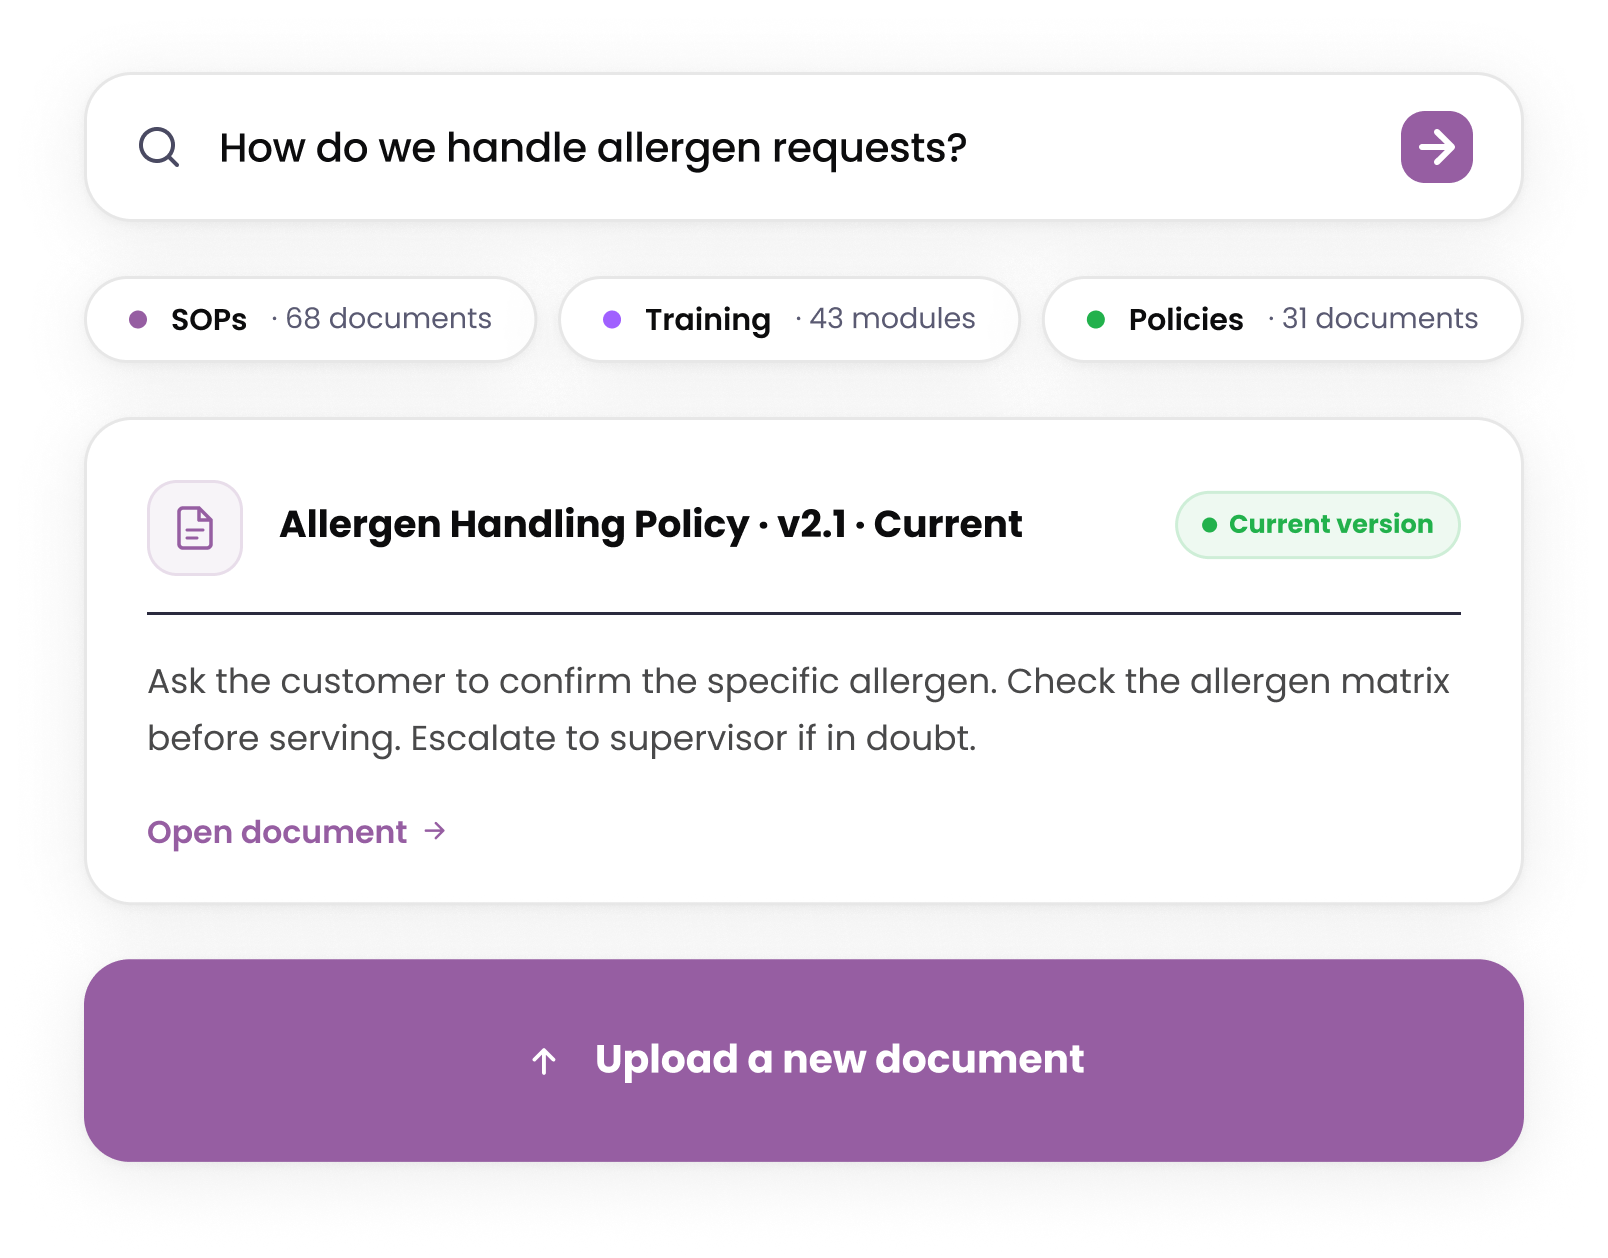
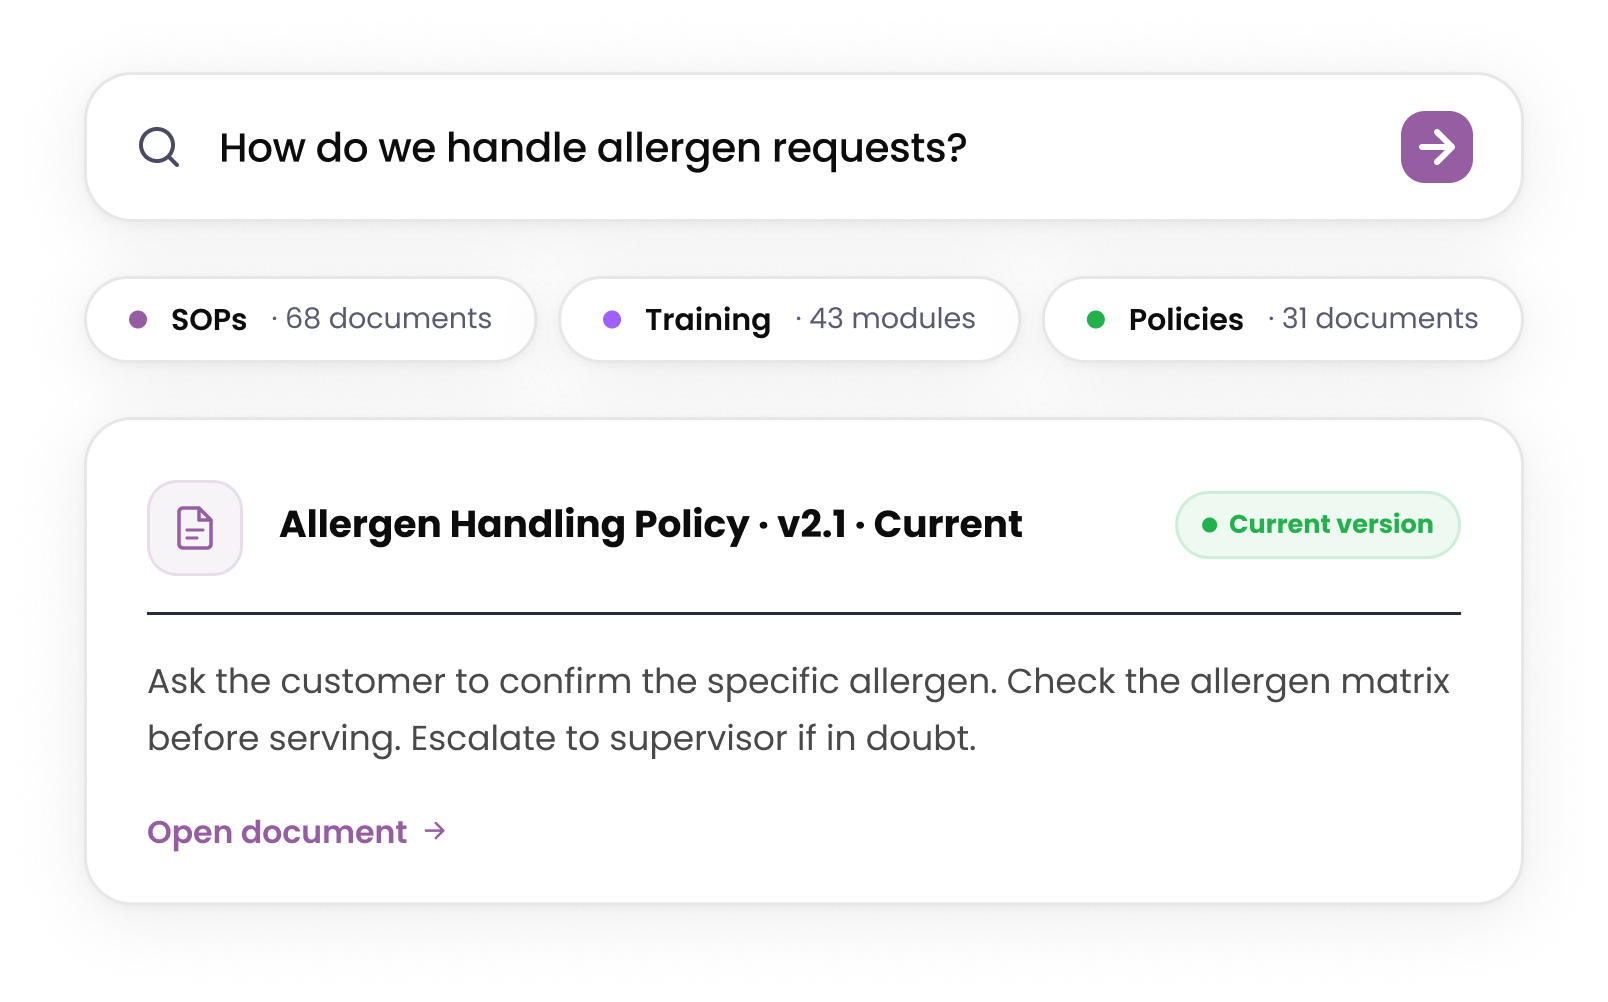
Refactor descriptions and input types across various components for improved clarity and user experience. Update survey descriptions for consistency, change input type for site count to number, and adjust header structure for better layout. Enhance styling in header and spotlight sections for better

diff --git a/app/(website)/solutions/by-challenge/siloed-tools-and-data/data.js b/app/(website)/solutions/by-challenge/siloed-tools-and-data/data.js
@@ -13,7 +13,7 @@ export const challengeFrameData = [
     {
         eyebrow: "01 | Data is siloed",
         title: "Customer and operational data sit in different tools and different teams.",
-        description: "Feedback, audits, tickets and reviews are captured into one connected platform, so every signal lands in the same place without manual exports.",
+        // description: "Feedback, audits, tickets and reviews are captured into one connected platform, so every signal lands in the same place without manual exports.",
         tags: [
             {
                 tag: "Connected signals",
@@ -23,7 +23,7 @@ export const challengeFrameData = [
     {
         eyebrow: "02 | Signals are disconnected",
         title: "Proving how the estate is doing means stitching exports together by hand.",
-        description: "EVA reads across every signal and answers in plain English, so the question how are we doing takes seconds, not a week of spreadsheet work.",
+        // description: "EVA reads across every signal and answers in plain English, so the question how are we doing takes seconds, not a week of spreadsheet work.",
         tags: [
             {
                 tag: "One operating picture",
@@ -33,7 +33,7 @@ export const challengeFrameData = [
     {
         eyebrow: "03 | Answers are hidden",
         title: "The business is connected in real life, but disconnected in your systems.",
-        description: "Serve First gives every team one operating picture, so insight routes into tasks and follow-ups instead of dying in a dashboard nobody owns.",
+        // description: "Serve First gives every team one operating picture, so insight routes into tasks and follow-ups instead of dying in a dashboard nobody owns.",
         tags: [
             {
                 tag: "Answers in seconds",

diff --git a/app/(website)/solutions/by-challenge/inconsistent-standards/data.js b/app/(website)/solutions/by-challenge/inconsistent-standards/data.js
@@ -12,7 +12,7 @@ export const challengeFrameData = [
     {
         eyebrow: "01 | Standards drift",
         title: "One standard leaves head office and changes a little at every site.",
-        description: "Serve First runs the same digital Audits at every site, scored the same way, so the standard is checked like for like and drift shows up immediately.",
+        // description: "Serve First runs the same digital Audits at every site, scored the same way, so the standard is checked like for like and drift shows up immediately.",
         tags: [
             {
                 tag: "Store audits",
@@ -22,7 +22,7 @@ export const challengeFrameData = [
     {
         eyebrow: "02 | Ratings change",
         title: "You cannot see which locations are slipping until customers feel it.",
-        description: "Every site is scored and compared in one operating picture, with EVA flagging the locations that are slipping and the standard behind the slip.",
+        // description: "Every site is scored and compared in one operating picture, with EVA flagging the locations that are slipping and the standard behind the slip.",
         tags: [
             {
                 tag: "Routed tasks",
@@ -32,7 +32,7 @@ export const challengeFrameData = [
     {
         eyebrow: "03 | Inconsistent standards",
         title: "Issues get raised on a visit, then quietly slip back within weeks.",
-        description: "Every failed check raises a corrective task routed to an owner and tracked to proof of completion, so the fix holds and you can show it did.",
+        // description: "Every failed check raises a corrective task routed to an owner and tracked to proof of completion, so the fix holds and you can show it did.",
         tags: [
             {
                 tag: "Proof of completion",

diff --git a/app/(website)/solutions/by-industry/restaurants/data.js b/app/(website)/solutions/by-industry/restaurants/data.js
@@ -10,19 +10,19 @@ export const challengeFrameData = [
     {
         eyebrow: "01 | Food safety audits",
         title: "Food safety and service standards drift between sites and shifts.",
-        description: "Serve First runs the same food safety and service audits at every site, scored consistently, so standards are checked the same way on every shift.",
+        // description: "Serve First runs the same food safety and service audits at every site, scored consistently, so standards are checked the same way on every shift.",
         tags: []
     },
     {
         eyebrow: "02 | Guest Feedback",
         title: "When the audit is on paper, the evidence is patchy and hard to find later.",
-        description: "Digital checks capture timestamps, photos and sign-offs as the shift runs, so the evidence builds itself and is ready when you need it.",
+        // description: "Digital checks capture timestamps, photos and sign-offs as the shift runs, so the evidence builds itself and is ready when you need it.",
         tags: []
     },
     {
         eyebrow: "03 | Proof of Completion",
         title: "A problem gets noted, then slips back before the next visit.",
-        description: "Every failed check raises a corrective task routed to the right owner and tracked to done, so issues close before the next service.",
+        // description: "Every failed check raises a corrective task routed to the right owner and tracked to done, so issues close before the next service.",
         tags: []
     }
 ]

diff --git a/components/layouts/header/parts/header-shell.js b/components/layouts/header/parts/header-shell.js
@@ -1,0 +1,36 @@
+"use client";
+
+// Next
+import { usePathname } from "next/navigation";
+
+// Components
+import Topbar from "@/components/layouts/topbar/topbar";
+
+// Styles
+import styles from "@/styles/components/layouts/header/header.module.scss";
+
+const topbarPath = "/products/customer-experience/mystery-shopping";
+
+export default function HeaderShell({ children }) {
+
+    const pathname = usePathname();
+
+    const hasTopbar = pathname === topbarPath;
+
+    return (
+
+        <>
+
+            {hasTopbar && <Topbar />}
+
+            <header id="header" className={styles.header} role="banner" data-has-topbar={hasTopbar}>
+
+                {children}
+
+            </header>
+
+        </>
+
+    )
+
+}

diff --git a/components/sections/platform-story/platform-story.js b/components/sections/platform-story/platform-story.js
@@ -23,17 +23,13 @@ export default function PlatformStory({
             data-name="platform-story"
         >
 
-            <div className={"container sectionSplitTitle noPaddingBottom"}>
+            <div className={"container noPaddingBottom"}>
 
-                <div className={`content headingCol`}>
+                <div className={`content`}>
 
                     {eyebrow && (<Eyebrow text={eyebrow} hasDash={true} />)}
 
                     <Text headingClass={`sectionTitle colorPrimaryAlt`} title={title} />
-
-                </div>
-
-                <div className={`contentCol`}>
 
                     {description && (<Text description={description} />)}
 

diff --git a/components/layouts/topbar/components/topbar-layout.js b/components/layouts/topbar/components/topbar-layout.js
@@ -1,0 +1,23 @@
+// Components
+import Button from "@/components/handlers/buttons";
+
+// Styles
+import styles from "@/styles/components/layouts/topbar/topbar.module.scss";
+
+export default function Topbar({ href = "https://mysteryshopping.servefirst.ai/", text = "Become a Mystery Shopper", target = "_blank" }) {
+
+    return (
+
+        <div className={`row ${styles.topbar}`}>
+
+            <div className={`container ${styles.topbarContainer}`}>
+
+                <Button href={href} text={text} target={target} className="textLink colorPrimaryAlt" hasAnimation={false} />
+
+            </div>
+
+        </div>
+
+    )
+
+}

diff --git a/app/(website)/solutions/by-challenge/data-to-action/data.js b/app/(website)/solutions/by-challenge/data-to-action/data.js
@@ -13,7 +13,7 @@ export const challengeFrameData = [
     {
         eyebrow: "01 | Plenty of dashboards",
         title: "You have no shortage of dashboards, and no shortage of unread reports.",
-        description: "EVA reads each signal and names the next action, with the site and the reason, so insight arrives ready to use rather than waiting to be interpreted.",
+        description: "EVA reads each signal and names the next action, with the site and the reason, so insight arrives ready to use, not waiting to be interpreted.",
         tags: [
             {
                 tag: "System of action",

diff --git a/components/handlers/forms/form-full.js b/components/handlers/forms/form-full.js
@@ -158,7 +158,7 @@ export default function FormFull({ theme = "primary", hasDemoLink = true, formBt
 
                     <div className={styles.field}>
 
-                        <input type="text" name="sites" required autoComplete="false" placeholder="How many locations you operate." aria-required="true" />
+                        <input type="number" min="1" name="sites" required autoComplete="false" placeholder="How many locations you operate." aria-required="true" />
 
                     </div>
 

diff --git a/components/layouts/header/header.js b/components/layouts/header/header.js
@@ -1,17 +1,16 @@
 // Components
+import HeaderShell from "@/components/layouts/header/parts/header-shell"
 import HeaderContainer from "@/components/layouts/header/parts/header-container"
-
-import styles from "@/styles/components/layouts/header/header.module.scss"
 
 export default function Header() {
 
     return (
 
-        <header id="header" className={styles.header} role="banner">
+        <HeaderShell>
 
             <HeaderContainer />
 
-        </header>
+        </HeaderShell>
 
     )
 

diff --git a/styles/components/layouts/topbar/topbar.module.scss b/styles/components/layouts/topbar/topbar.module.scss
@@ -1,0 +1,23 @@
+.topbar {
+    @media (width >=1024px) {
+        background: transparent;
+        position: absolute;
+        z-index: 9999;
+    }
+}
+
+.topbarContainer {
+    display: flex;
+    align-items: flex-end;
+    height: var(--mobileTopbarHeight);
+
+    @media all {
+        padding-top: 0;
+        padding-bottom: 0;
+    }
+
+    @media (width >=1024px) {
+        height: var(--desktopTopbarHeight);
+        mix-blend-mode: difference;
+    }
+}

diff --git a/components/sections/eva-spotlight/components/eva-spotlight-item.js b/components/sections/eva-spotlight/components/eva-spotlight-item.js
@@ -55,7 +55,7 @@ export default function EvaSpotlightItem({ item = {} }) {
 
                     {item.title && (
 
-                        <h3>{item.title}<span className={`colorPrimary`}>{item.titleSuffix ? item.titleSuffix : "."}</span></h3>
+                        <h2>{item.title}<span className={`colorPrimary`}>{item.titleSuffix ? item.titleSuffix : "."}</span></h2>
 
                     )}
 

diff --git a/app/(website)/products/customer-experience/survey/data.js b/app/(website)/products/customer-experience/survey/data.js
@@ -193,7 +193,7 @@ export const contentGridData = [
     {
         category: "By Industry",
         title: "Leisure & hospitality",
-        description: "Hear from guests at every site, in the moment.",
+        description: "Hear from occupants at every site you manage.",
         image: "/images/products/shared/hospitality-industry-icon.svg",
         button: {
             text: "Explore",
